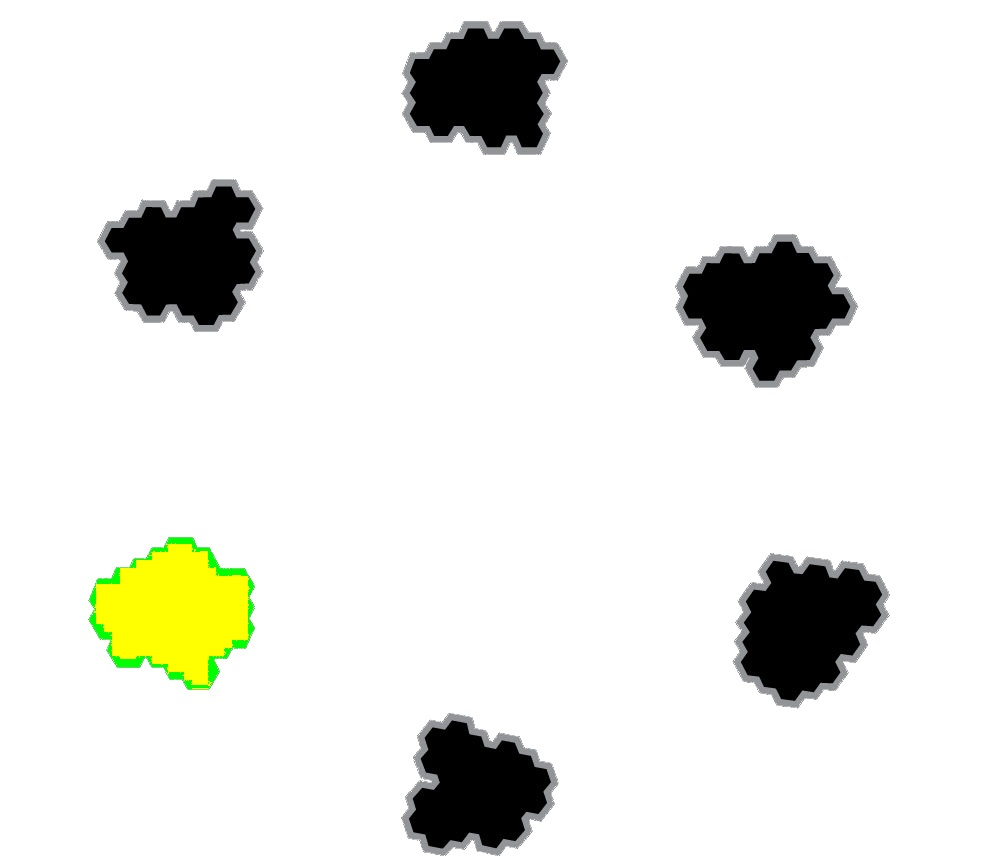
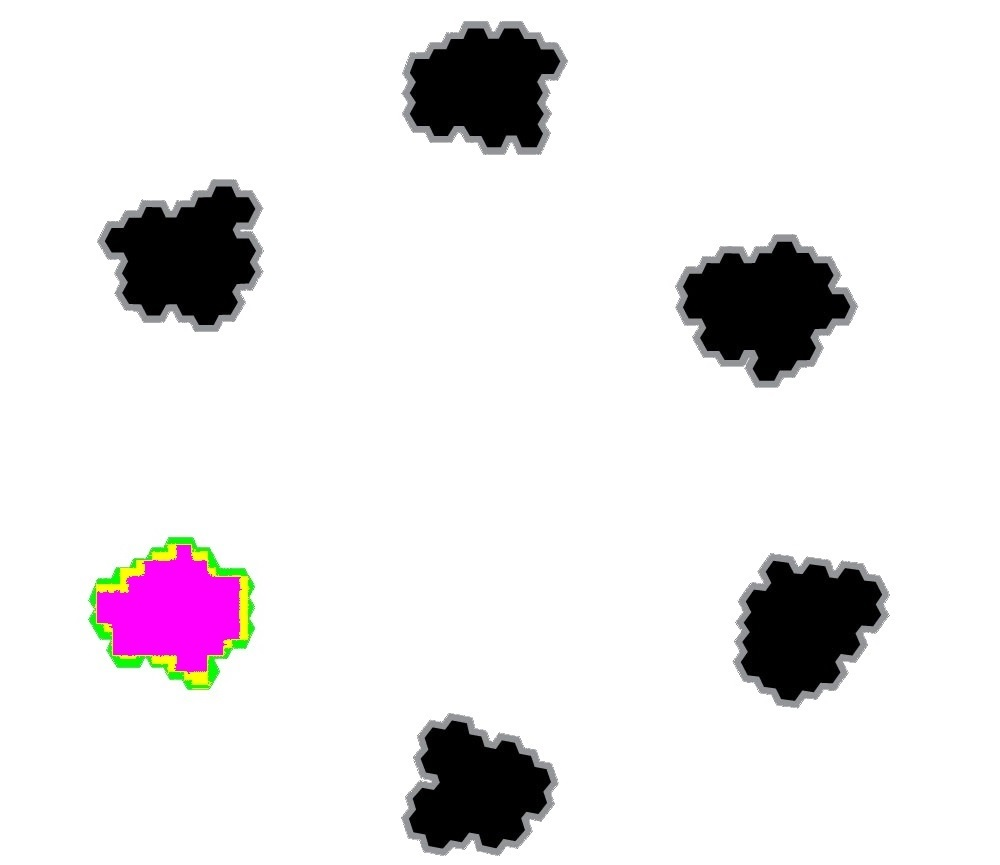
purple instead of green

Changed region(s): [[0.093, 0.6243, 0.279, 0.8116]]

diff --git a/src/app/horizon9/page.jsx b/src/app/horizon9/page.jsx
@@ -274,29 +274,29 @@ export default function Horizon() {
         },
         step3: {
           value: new THREE.TextureLoader().load(
-            "/images/island_2/islands_02.jpg"
+            "/images/island_3/islands_02.jpg"
           ),
         },
         step4: {
-          value: new THREE.TextureLoader().load("/images/island_2/01.jpg"),
+          value: new THREE.TextureLoader().load("/images/island_3/001.jpg"),
         },
         step5: {
-          value: new THREE.TextureLoader().load("/images/island_2/02.jpg"),
+          value: new THREE.TextureLoader().load("/images/island_3/02.jpg"),
         },
         step6: {
-          value: new THREE.TextureLoader().load("/images/island_2/03.jpg"),
+          value: new THREE.TextureLoader().load("/images/island_3/03.jpg"),
         },
         step7: {
-          value: new THREE.TextureLoader().load("/images/island_2/04.jpg"),
+          value: new THREE.TextureLoader().load("/images/island_3/04.jpg"),
         },
         step8: {
-          value: new THREE.TextureLoader().load("/images/island_2/05.jpg"),
+          value: new THREE.TextureLoader().load("/images/island_3/05.jpg"),
         },
         step9: {
-          value: new THREE.TextureLoader().load("/images/island_2/06.jpg"),
+          value: new THREE.TextureLoader().load("/images/island_3/06.jpg"),
         },
         step10: {
-          value: new THREE.TextureLoader().load("/images/island_2/06.jpg"),
+          value: new THREE.TextureLoader().load("/images/island_3/06.jpg"),
         },
       },
       vertexShader: fboVertex,
@@ -307,8 +307,14 @@ export default function Horizon() {
     fboScene.add(fboMesh);
   }
 
+  let selectionTimeout = null;
+  let lastSelectedObject = null;
   function addSelectedObject(object) {
-    console.log(object?.name);
+    if (object === lastSelectedObject) {
+      console.log("same object selected");
+      return;
+    } // If the same object is selected, do nothing
+    console.log(object);
     if (object == null) {
       selectedObjects.length = 0;
       outlinePassRef.current.selectedObjects = selectedObjects;
@@ -317,6 +323,7 @@ export default function Horizon() {
       selectedObjects.push(object); // add the new object
       outlinePassRef.current.selectedObjects = selectedObjects;
     }
+    lastSelectedObject = object;
   }
 
   async function setupScene(canvas) {
@@ -885,9 +892,9 @@ export default function Horizon() {
       // // });
       // // scan_lines.side = THREE.DoubleSide;
       const debugPlaneMesh = new THREE.Mesh(debugPlaneGeo, debugPlaneMat);
-      debugPlaneMesh.position.set(0, 20, 0);
+      debugPlaneMesh.position.set(50, 20, -100);
       debugPlaneMesh.rotation.x = (Math.PI / 180) * -90;
-      sceneRef.current.add(debugPlaneMesh);
+      cameraRef.current.add(debugPlaneMesh);
 
       // console.log(scan_lines);
 

diff --git a/src/app/lib/scripts/assetLoader_02.js b/src/app/lib/scripts/assetLoader_02.js
@@ -88,7 +88,7 @@ export function loadAssetsWithPromise(
 
     const check = () => {
       const checkValue = () => {
-        console.log(productPageVisible);
+        //console.log(productPageVisible);
         requestAnimationFrame(checkValue);
       };
       requestAnimationFrame(checkValue);
